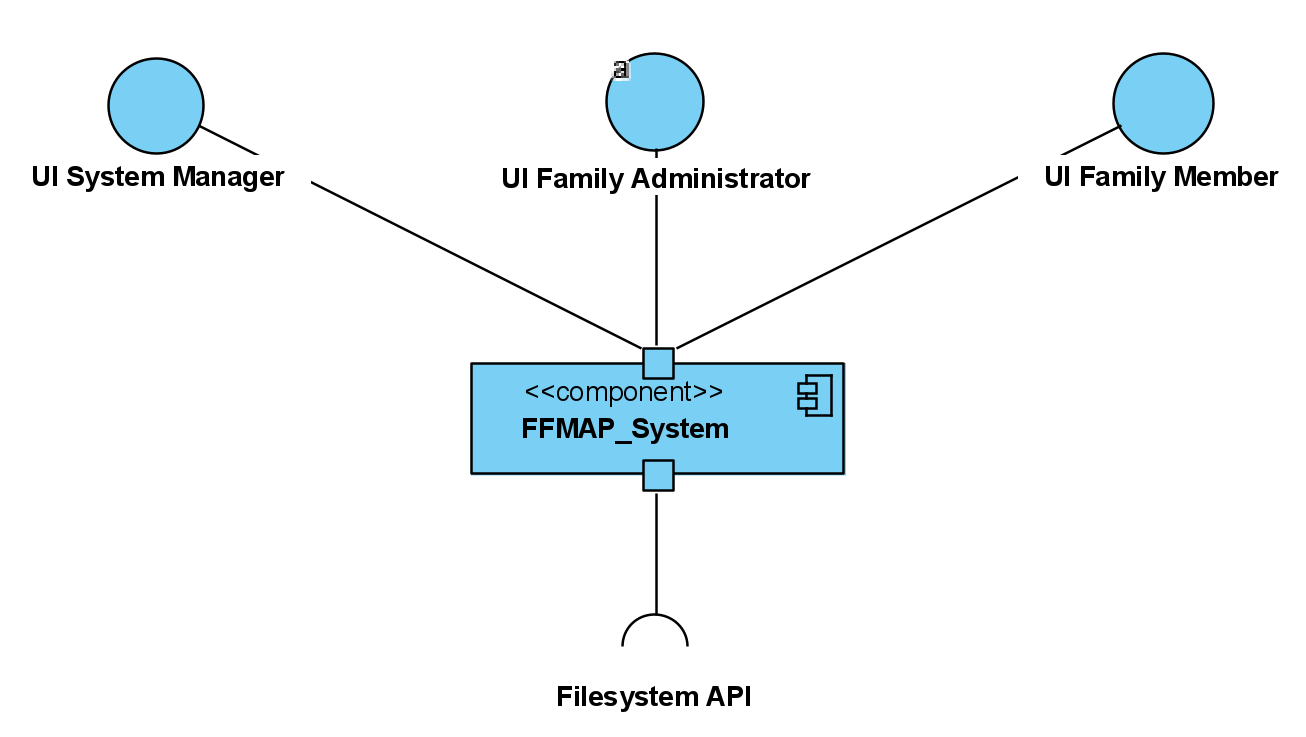
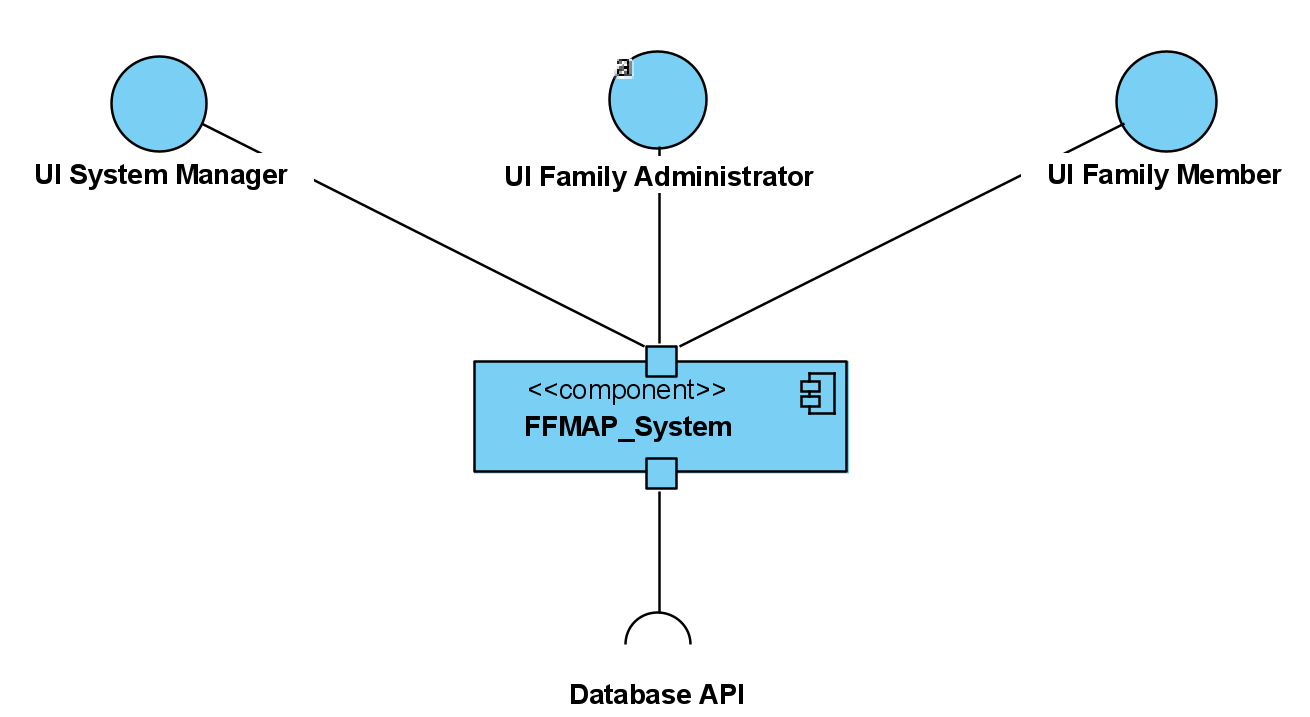
Updated Views. Added Level 2 Logic View and Corrected Database API in Level 1 Logic View

diff --git a/Views.md b/Views.md
@@ -103,7 +103,7 @@ Para modelar/representar visualmente, tanto o que foi implementado como as ideia
 ## Nível 2
 ### Vista Lógica
 
-![N2-VL](diagramas/nivel2/N2-VL.png)
+![img_1.png](Images/img_1.png)
 
 ### Vista de Processos
 
